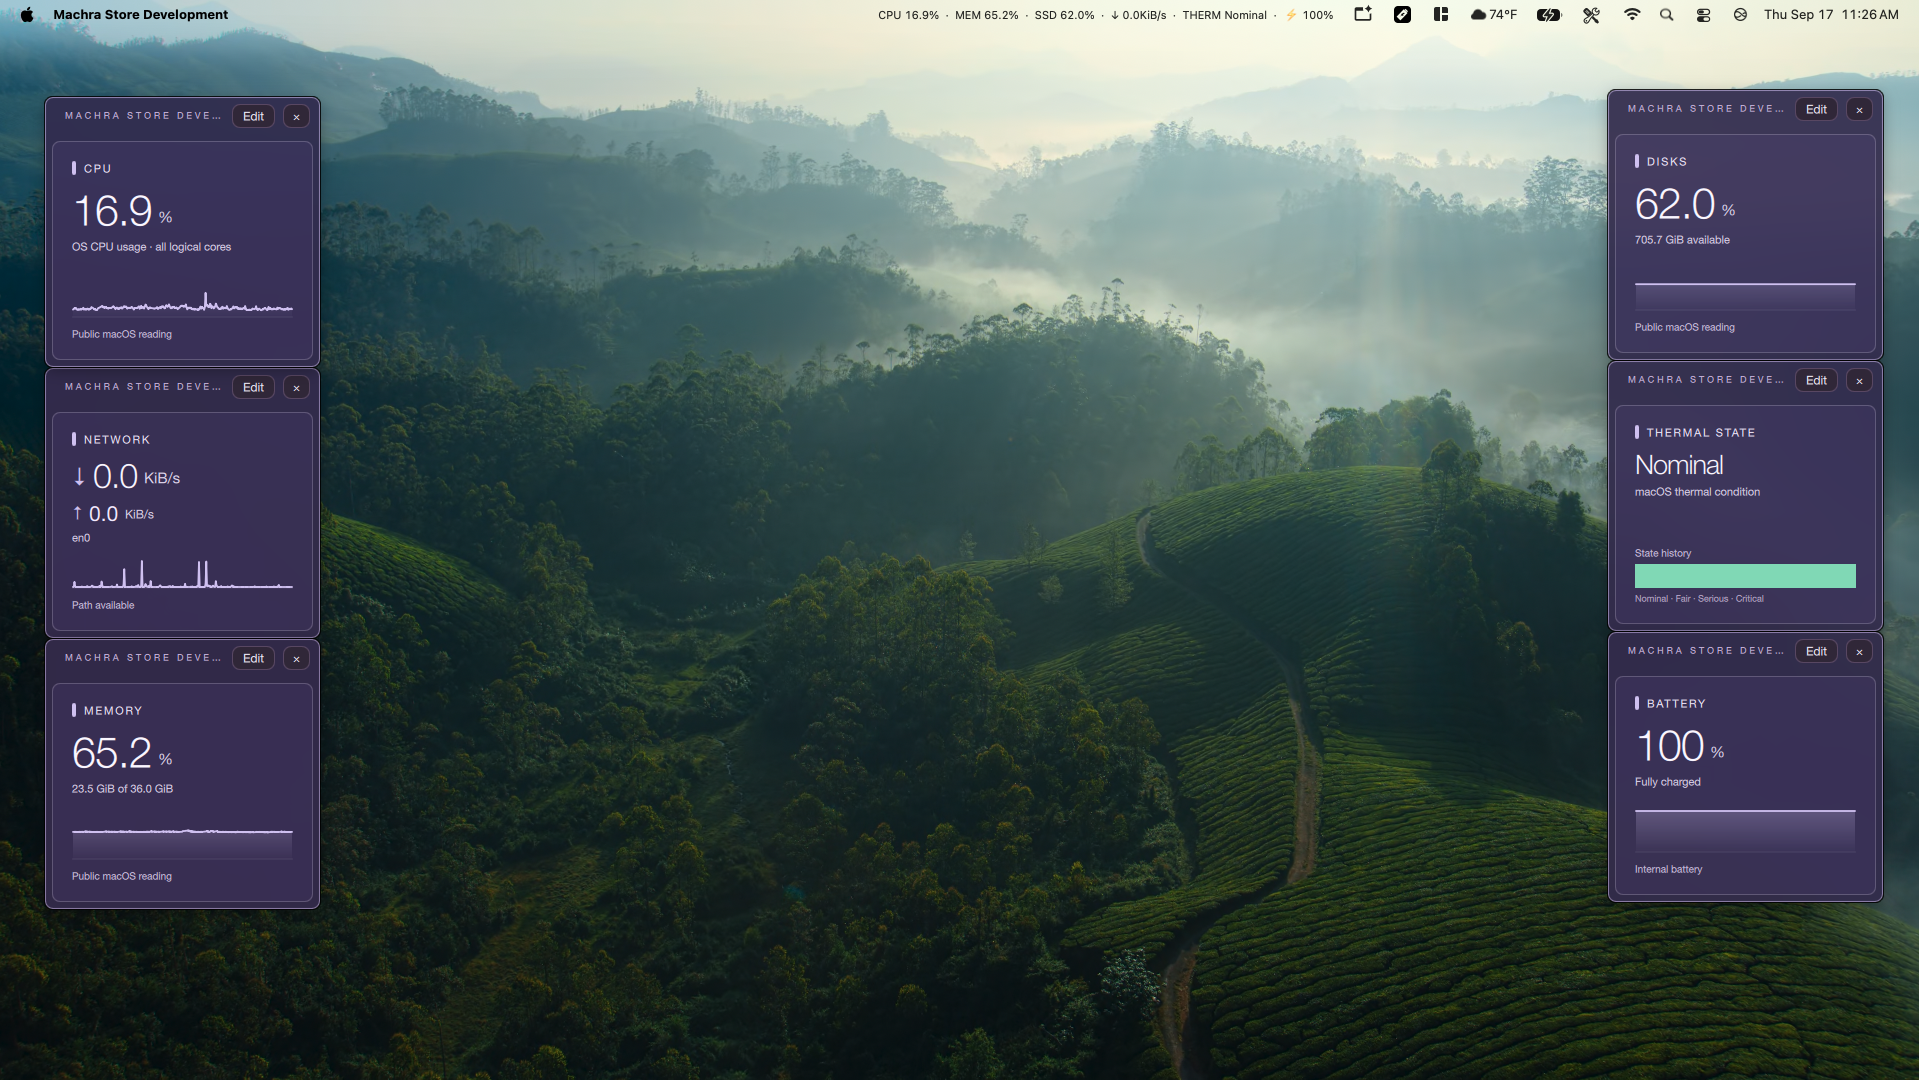
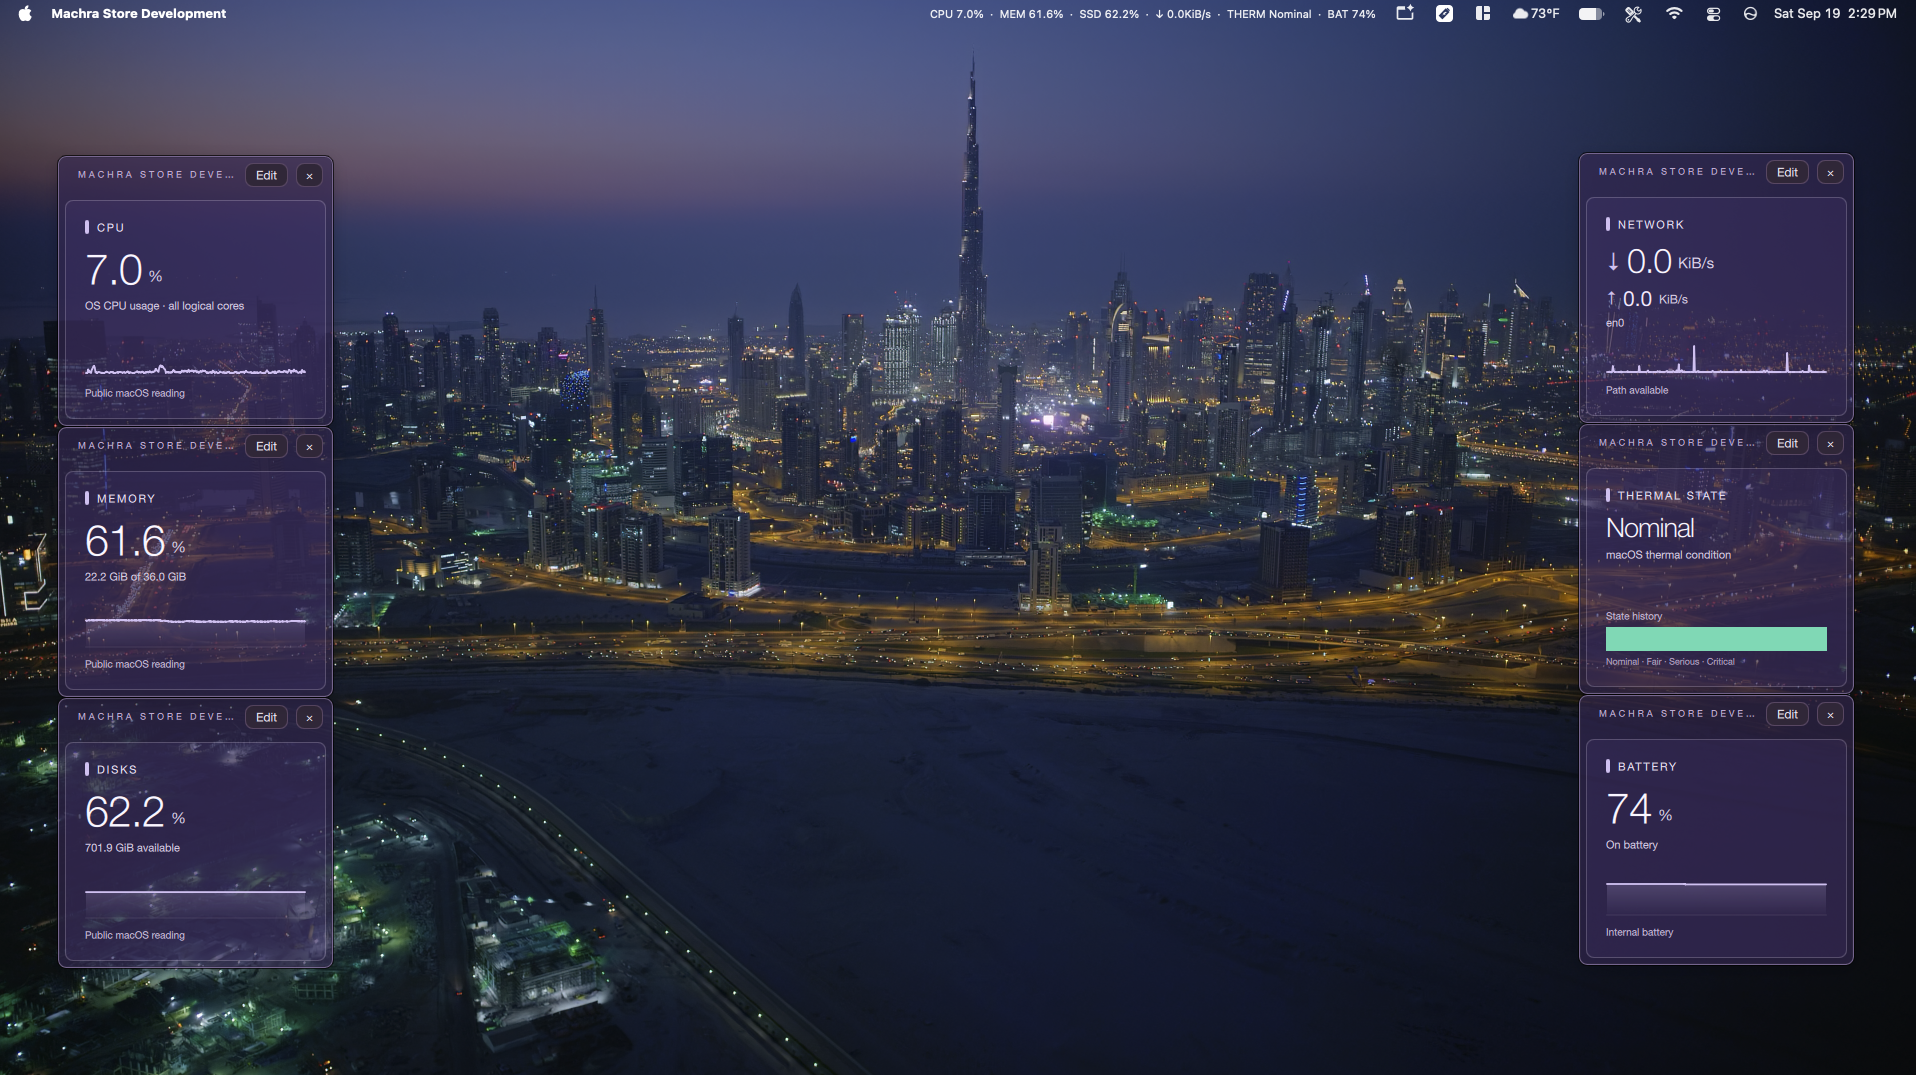
Update Machra website screenshots and README

diff --git a/src/app/page.tsx b/src/app/page.tsx
@@ -263,7 +263,7 @@ export default function Home() {
         </a>
         </div>
 
-        <span>© 2026 Prevail</span>
+        <span>© 2026 Prevail Industries </span>
       </footer>
     </main>
   );
